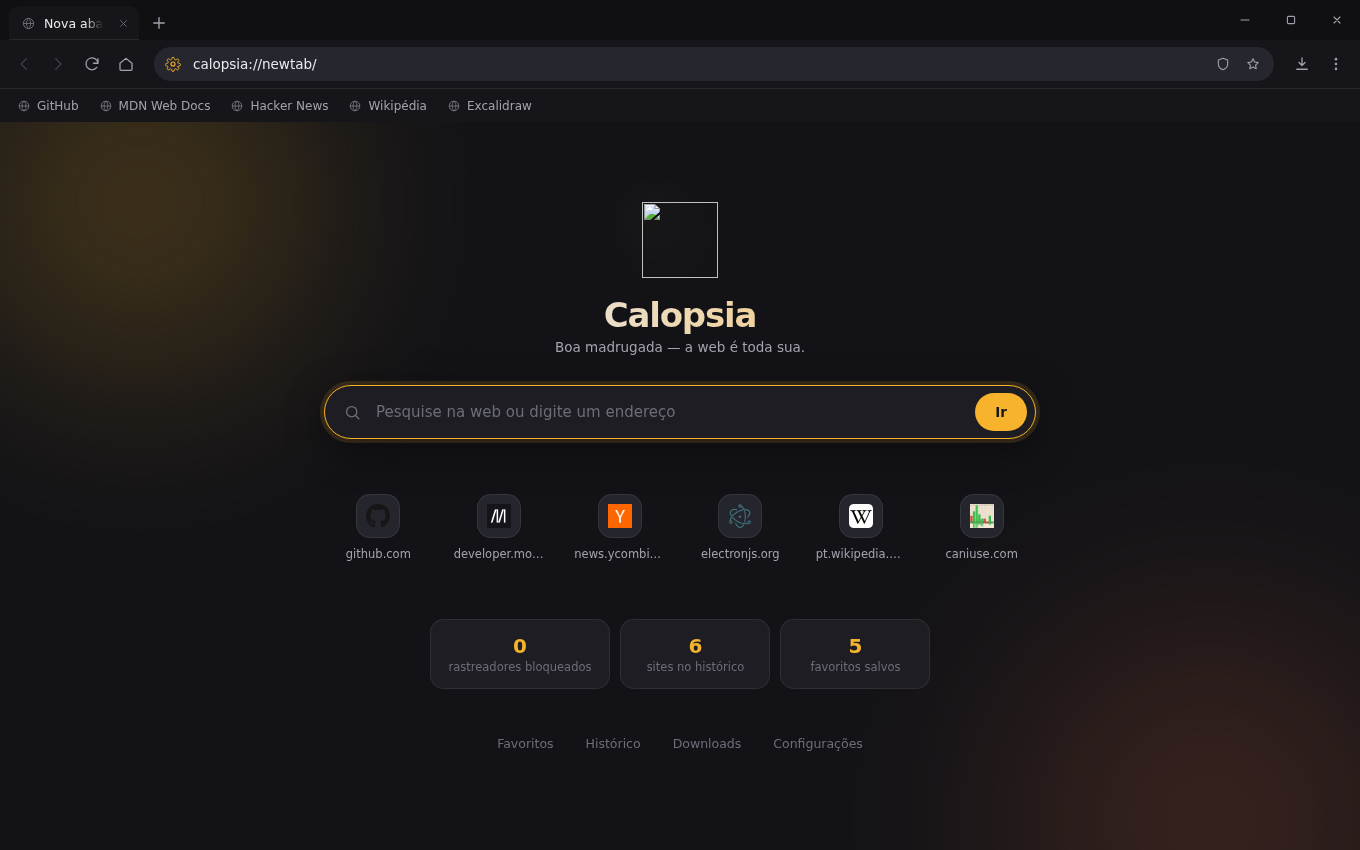
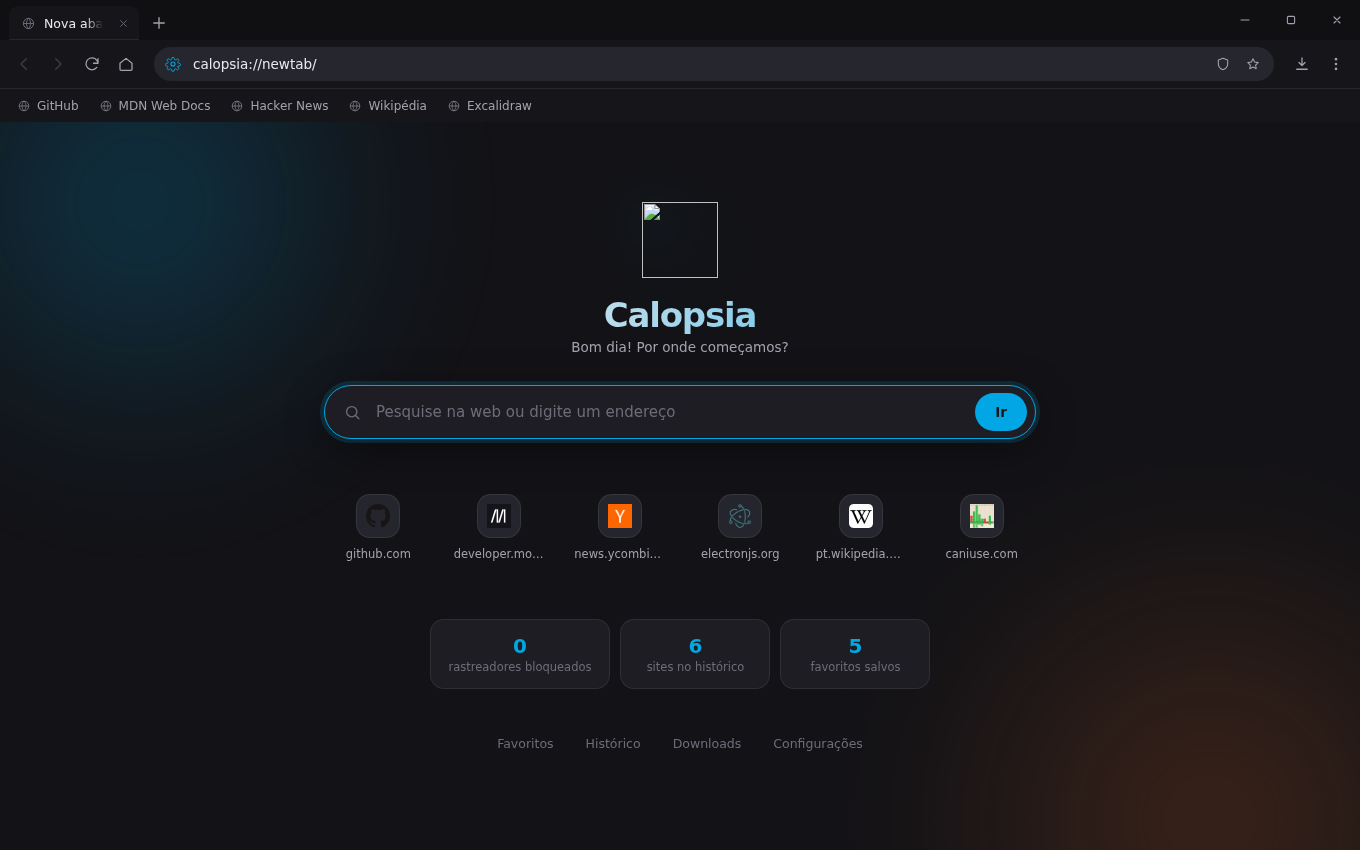
Aplicar a identidade visual oficial do Calopsia
O logo oficial (calopsita azul) foi incorporado e a paleta da interface
passou a ser derivada dele, em vez das cores provisórias amarelas.

- src/assets/logo.png (1024x1024) e logo-original.png versionados
- build/logo.png alimenta o gerador de ícones; o icon.png passa a ser
  derivado do logo real em vez do desenho por SDF
- Cores da marca extraídas do arquivo por análise de frequência:
    #01a7e4  azul principal  (destaque da interface)
    #fd7225  laranja do bico (acento secundário)
    #fddb8c  amarelo da crista (realces)
- Tema claro recebe #0186c4 para manter contraste adequado
- Paleta aplicada na interface, nas páginas internas, nos brilhos da
  Nova aba e na lista de cores de destaque das Configurações
- Páginas internas passam a exibir o PNG oficial no lugar do SVG
- Capturas de docs/ regeneradas com a identidade nova

Changed region(s): [[0.0, 0.1224, 0.2162, 0.4282], [0.2162, 0.3365, 0.7721, 0.52]]

diff --git a/src/pages/about.html b/src/pages/about.html
@@ -8,7 +8,7 @@
   <link rel="stylesheet" href="page.css" />
   <style>
     .hero { text-align: center; padding: 70px 20px 40px; }
-    .hero img { width: 104px; height: 104px; filter: drop-shadow(0 12px 34px rgba(247,179,43,.3)); }
+    .hero img { width: 104px; height: 104px; filter: drop-shadow(0 12px 34px rgba(1,167,228,.32)); }
     .hero h1 {
       margin: 20px 0 6px; font-size: 40px; font-weight: 700; letter-spacing: -.04em;
       background: linear-gradient(100deg, var(--text) 25%, var(--accent) 115%);
@@ -31,7 +31,7 @@
 <body>
   <div class="page">
     <div class="hero">
-      <img src="calopsia://assets/logo.svg" alt="Calopsia" />
+      <img src="calopsia://assets/logo.png" alt="Calopsia" />
       <h1>Calopsia</h1>
       <div class="ver" id="version">—</div>
       <p class="tagline">Um navegador de código aberto construído sobre o Chromium, com foco em velocidade, privacidade e uma interface que sai da frente.</p>

diff --git a/src/renderer/styles.css b/src/renderer/styles.css
@@ -14,9 +14,10 @@
   --text:          #e9e9ee;
   --text-dim:      #a2a2ae;
   --text-faint:    #6e6e7a;
-  --accent:        #f7b32b;
-  --accent-soft:   rgba(247, 179, 43, 0.16);
-  --accent-2:      #ff7a45;
+  --accent:        #01a7e4;   /* azul da marca */
+  --accent-soft:   rgba(1, 167, 228, 0.18);
+  --accent-2:      #fd7225;   /* laranja do bico */
+  --accent-3:      #fddb8c;   /* amarelo da crista */
   --danger:        #ff5d5d;
   --success:       #46d19a;
   --shadow-sm:     0 1px 2px rgba(0, 0, 0, .3);
@@ -42,8 +43,8 @@
   --text:          #1a1b1f;
   --text-dim:      #5d616b;
   --text-faint:    #8b8f99;
-  --accent:        #d99206;
-  --accent-soft:   rgba(217, 146, 6, 0.14);
+  --accent:        #0186c4;
+  --accent-soft:   rgba(1, 134, 196, 0.14);
   --shadow-sm:     0 1px 2px rgba(0, 0, 0, .08);
   --shadow-md:     0 8px 24px rgba(0, 0, 0, .12);
   --shadow-lg:     0 18px 50px rgba(0, 0, 0, .18);

diff --git a/src/pages/newtab.css b/src/pages/newtab.css
@@ -12,12 +12,12 @@ body { overflow-x: hidden; }
 .b1 {
   width: 520px; height: 520px;
   top: -180px; left: -120px;
-  background: radial-gradient(circle, #f7b32b, transparent 70%);
+  background: radial-gradient(circle, #01a7e4, transparent 70%);
 }
 .b2 {
   width: 620px; height: 620px;
   bottom: -280px; right: -160px;
-  background: radial-gradient(circle, #ff7a45, transparent 70%);
+  background: radial-gradient(circle, #fd7225, transparent 70%);
   opacity: .22;
 }
 [data-theme="light"] .blob { opacity: .22; }
@@ -34,7 +34,7 @@ body { overflow-x: hidden; }
 .nt-brand { margin-bottom: 30px; }
 .nt-logo {
   width: 76px; height: 76px;
-  filter: drop-shadow(0 8px 26px rgba(247, 179, 43, .28));
+  filter: drop-shadow(0 8px 26px rgba(1, 167, 228, .30));
   animation: rise .5s cubic-bezier(.22,.61,.36,1) both;
 }
 .nt-word {

diff --git a/src/pages/page.css b/src/pages/page.css
@@ -13,9 +13,10 @@
   --text:          #e9e9ee;
   --text-dim:      #a3a3af;
   --text-faint:    #6d6d79;
-  --accent:        #f7b32b;
-  --accent-2:      #ff7a45;
-  --accent-soft:   rgba(247,179,43,.14);
+  --accent:        #01a7e4;   /* azul da marca */
+  --accent-2:      #fd7225;   /* laranja do bico */
+  --accent-3:      #fddb8c;   /* amarelo da crista */
+  --accent-soft:   rgba(1,167,228,.16);
   --danger:        #ff5d5d;
   --success:       #46d19a;
   --radius:        12px;
@@ -35,8 +36,8 @@
   --text:          #17181c;
   --text-dim:      #5c606a;
   --text-faint:    #8a8e98;
-  --accent:        #d99206;
-  --accent-soft:   rgba(217,146,6,.12);
+  --accent:        #0186c4;
+  --accent-soft:   rgba(1,134,196,.13);
   --shadow:        0 10px 40px rgba(0,0,0,.10);
 }
 

diff --git a/src/pages/newtab.html b/src/pages/newtab.html
@@ -13,7 +13,7 @@
 
   <main class="nt">
     <header class="nt-brand">
-      <img class="nt-logo" src="calopsia://assets/logo.svg" alt="" width="76" height="76" />
+      <img class="nt-logo" src="calopsia://assets/logo.png" alt="" width="76" height="76" />
       <h1 class="nt-word">Calopsia</h1>
       <p class="nt-tag" id="greeting">Rápido, privado e do seu jeito.</p>
     </header>

diff --git a/src/pages/settings.js b/src/pages/settings.js
@@ -22,7 +22,7 @@ async function update(patch) {
 
 /* ---------------------------------------------------------------- esquema */
 
-const ACCENTS = ['#f7b32b', '#ff7a45', '#46d19a', '#4aa8ff', '#a78bfa', '#ff6b9d', '#e2e8f0'];
+const ACCENTS = ['#01a7e4', '#fd7225', '#fddb8c', '#46d19a', '#a78bfa', '#ff6b9d', '#e2e8f0'];
 
 const SECTIONS = [
   {

diff --git a/src/pages/settings.html b/src/pages/settings.html
@@ -106,7 +106,7 @@
 </head>
 <body>
   <nav class="sidebar" id="sidebar">
-    <div class="sb-brand"><img src="calopsia://assets/logo.svg" alt="" />Configurações</div>
+    <div class="sb-brand"><img src="calopsia://assets/logo.png" alt="" />Configurações</div>
   </nav>
 
   <div class="content">

diff --git a/src/main/store.js b/src/main/store.js
@@ -90,7 +90,7 @@ class Store {
 
 const DEFAULT_SETTINGS = {
   theme: 'system', // 'system' | 'dark' | 'light'
-  accent: '#f7b32b',
+  accent: '#01a7e4',
   searchEngine: 'duckduckgo',
   homepage: 'calopsia://newtab',
   startup: 'newtab', // 'newtab' | 'restore' | 'homepage'

diff --git a/README.md b/README.md
@@ -1,6 +1,6 @@
 <div align="center">
 
-<img src="src/assets/logo.svg" width="110" alt="Calopsia" />
+<img src="src/assets/logo.png" width="128" alt="Calopsia" />
 
 # Calopsia
 
@@ -8,7 +8,7 @@
 Rápido, privado e com uma interface que sai da frente.
 
 [![Build](https://github.com/Pedro21062014/CALOPSIA/actions/workflows/build.yml/badge.svg)](https://github.com/Pedro21062014/CALOPSIA/actions/workflows/build.yml)
-[![Licença MIT](https://img.shields.io/badge/licen%C3%A7a-MIT-f7b32b)](LICENSE)
+[![Licença MIT](https://img.shields.io/badge/licen%C3%A7a-MIT-01a7e4)](LICENSE)
 [![Electron](https://img.shields.io/badge/Electron-44-47848F?logo=electron&logoColor=white)](https://electronjs.org)
 [![Plataformas](https://img.shields.io/badge/plataformas-Windows%20%7C%20macOS%20%7C%20Linux-6e6e7a)](#instalação)
 
@@ -146,15 +146,22 @@ continue rolável durante a busca.
 | `Ctrl/⌘ 1…8` | Ir para a aba N | | `F11` | Tela cheia |
 | `Ctrl/⌘ 9` | Última aba | | `F12` | Ferramentas do dev |
 
-## Trocar o logo
+## Identidade visual
 
-O ícone atual é **provisório**, desenhado por código. Para usar o definitivo:
+O logo oficial está em `src/assets/logo.png` (1024×1024, fundo transparente) e a arte
+original em `src/assets/logo-original.png`. A paleta da interface foi derivada dele:
 
-1. Salve o arquivo como `build/logo.png` (PNG quadrado, **1024×1024**, com transparência).
-2. Rode `npm run icons`.
-3. Opcionalmente, substitua `src/assets/logo.svg` — é ele que aparece na Nova aba e no Sobre.
+| Cor | Uso |
+|---|---|
+| `#01a7e4` | Azul da marca — destaque padrão da interface |
+| `#fd7225` | Laranja do bico — progresso e alertas suaves |
+| `#fddb8c` | Amarelo da crista — realces secundários |
 
-O `electron-builder` deriva automaticamente o `.icns` (macOS) e o `.ico` (Windows).
+Para trocar o logo:
+
+1. Substitua `build/logo.png` (PNG quadrado, **1024×1024**, com transparência).
+2. Rode `npm run icons` — o `electron-builder` deriva o `.icns` (macOS) e o `.ico` (Windows).
+3. Substitua também `src/assets/logo.png`, usado na Nova aba, nas Configurações e no Sobre.
 
 ## Segurança
 
